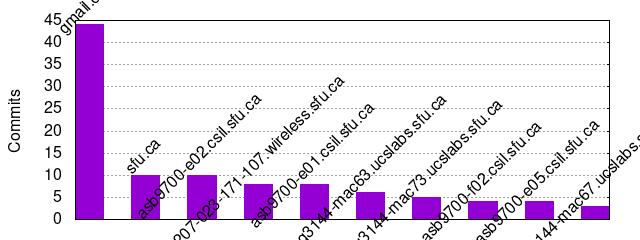
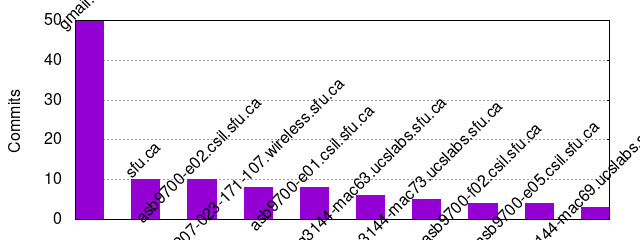
update gitstats

diff --git a/docs/activity.html b/docs/activity.html
@@ -22,27 +22,27 @@
 
 <h2 id="weekly_activity"><a href="#weekly_activity">Weekly activity</a></h2>
 
-<p>Last 32 weeks</p><table class="noborders"><tr><td style="text-align: center; vertical-align: bottom">0<div style="display: block; background-color: red; width: 20px; height: 1px"></div></td><td style="text-align: center; vertical-align: bottom">0<div style="display: block; background-color: red; width: 20px; height: 1px"></div></td><td style="text-align: center; vertical-align: bottom">0<div style="display: block; background-color: red; width: 20px; height: 1px"></div></td><td style="text-align: center; vertical-align: bottom">0<div style="display: block; background-color: red; width: 20px; height: 1px"></div></td><td style="text-align: center; vertical-align: bottom">0<div style="display: block; background-color: red; width: 20px; height: 1px"></div></td><td style="text-align: center; vertical-align: bottom">0<div style="display: block; background-color: red; width: 20px; height: 1px"></div></td><td style="text-align: center; vertical-align: bottom">0<div style="display: block; background-color: red; width: 20px; height: 1px"></div></td><td style="text-align: center; vertical-align: bottom">0<div style="display: block; background-color: red; width: 20px; height: 1px"></div></td><td style="text-align: center; vertical-align: bottom">0<div style="display: block; background-color: red; width: 20px; height: 1px"></div></td><td style="text-align: center; vertical-align: bottom">0<div style="display: block; background-color: red; width: 20px; height: 1px"></div></td><td style="text-align: center; vertical-align: bottom">0<div style="display: block; background-color: red; width: 20px; height: 1px"></div></td><td style="text-align: center; vertical-align: bottom">0<div style="display: block; background-color: red; width: 20px; height: 1px"></div></td><td style="text-align: center; vertical-align: bottom">0<div style="display: block; background-color: red; width: 20px; height: 1px"></div></td><td style="text-align: center; vertical-align: bottom">0<div style="display: block; background-color: red; width: 20px; height: 1px"></div></td><td style="text-align: center; vertical-align: bottom">0<div style="display: block; background-color: red; width: 20px; height: 1px"></div></td><td style="text-align: center; vertical-align: bottom">0<div style="display: block; background-color: red; width: 20px; height: 1px"></div></td><td style="text-align: center; vertical-align: bottom">0<div style="display: block; background-color: red; width: 20px; height: 1px"></div></td><td style="text-align: center; vertical-align: bottom">0<div style="display: block; background-color: red; width: 20px; height: 1px"></div></td><td style="text-align: center; vertical-align: bottom">0<div style="display: block; background-color: red; width: 20px; height: 1px"></div></td><td style="text-align: center; vertical-align: bottom">0<div style="display: block; background-color: red; width: 20px; height: 1px"></div></td><td style="text-align: center; vertical-align: bottom">0<div style="display: block; background-color: red; width: 20px; height: 1px"></div></td><td style="text-align: center; vertical-align: bottom">0<div style="display: block; background-color: red; width: 20px; height: 1px"></div></td><td style="text-align: center; vertical-align: bottom">0<div style="display: block; background-color: red; width: 20px; height: 1px"></div></td><td style="text-align: center; vertical-align: bottom">0<div style="display: block; background-color: red; width: 20px; height: 1px"></div></td><td style="text-align: center; vertical-align: bottom">0<div style="display: block; background-color: red; width: 20px; height: 1px"></div></td><td style="text-align: center; vertical-align: bottom">4<div style="display: block; background-color: red; width: 20px; height: 9px"></div></td><td style="text-align: center; vertical-align: bottom">2<div style="display: block; background-color: red; width: 20px; height: 4px"></div></td><td style="text-align: center; vertical-align: bottom">0<div style="display: block; background-color: red; width: 20px; height: 1px"></div></td><td style="text-align: center; vertical-align: bottom">0<div style="display: block; background-color: red; width: 20px; height: 1px"></div></td><td style="text-align: center; vertical-align: bottom">0<div style="display: block; background-color: red; width: 20px; height: 1px"></div></td><td style="text-align: center; vertical-align: bottom">26<div style="display: block; background-color: red; width: 20px; height: 61px"></div></td><td style="text-align: center; vertical-align: bottom">84<div style="display: block; background-color: red; width: 20px; height: 200px"></div></td></tr><tr><td>32</td><td>31</td><td>30</td><td>29</td><td>28</td><td>27</td><td>26</td><td>25</td><td>24</td><td>23</td><td>22</td><td>21</td><td>20</td><td>19</td><td>18</td><td>17</td><td>16</td><td>15</td><td>14</td><td>13</td><td>12</td><td>11</td><td>10</td><td>9</td><td>8</td><td>7</td><td>6</td><td>5</td><td>4</td><td>3</td><td>2</td><td>1</td></tr></table>
+<p>Last 32 weeks</p><table class="noborders"><tr><td style="text-align: center; vertical-align: bottom">0<div style="display: block; background-color: red; width: 20px; height: 1px"></div></td><td style="text-align: center; vertical-align: bottom">0<div style="display: block; background-color: red; width: 20px; height: 1px"></div></td><td style="text-align: center; vertical-align: bottom">0<div style="display: block; background-color: red; width: 20px; height: 1px"></div></td><td style="text-align: center; vertical-align: bottom">0<div style="display: block; background-color: red; width: 20px; height: 1px"></div></td><td style="text-align: center; vertical-align: bottom">0<div style="display: block; background-color: red; width: 20px; height: 1px"></div></td><td style="text-align: center; vertical-align: bottom">0<div style="display: block; background-color: red; width: 20px; height: 1px"></div></td><td style="text-align: center; vertical-align: bottom">0<div style="display: block; background-color: red; width: 20px; height: 1px"></div></td><td style="text-align: center; vertical-align: bottom">0<div style="display: block; background-color: red; width: 20px; height: 1px"></div></td><td style="text-align: center; vertical-align: bottom">0<div style="display: block; background-color: red; width: 20px; height: 1px"></div></td><td style="text-align: center; vertical-align: bottom">0<div style="display: block; background-color: red; width: 20px; height: 1px"></div></td><td style="text-align: center; vertical-align: bottom">0<div style="display: block; background-color: red; width: 20px; height: 1px"></div></td><td style="text-align: center; vertical-align: bottom">0<div style="display: block; background-color: red; width: 20px; height: 1px"></div></td><td style="text-align: center; vertical-align: bottom">0<div style="display: block; background-color: red; width: 20px; height: 1px"></div></td><td style="text-align: center; vertical-align: bottom">0<div style="display: block; background-color: red; width: 20px; height: 1px"></div></td><td style="text-align: center; vertical-align: bottom">0<div style="display: block; background-color: red; width: 20px; height: 1px"></div></td><td style="text-align: center; vertical-align: bottom">0<div style="display: block; background-color: red; width: 20px; height: 1px"></div></td><td style="text-align: center; vertical-align: bottom">0<div style="display: block; background-color: red; width: 20px; height: 1px"></div></td><td style="text-align: center; vertical-align: bottom">0<div style="display: block; background-color: red; width: 20px; height: 1px"></div></td><td style="text-align: center; vertical-align: bottom">0<div style="display: block; background-color: red; width: 20px; height: 1px"></div></td><td style="text-align: center; vertical-align: bottom">0<div style="display: block; background-color: red; width: 20px; height: 1px"></div></td><td style="text-align: center; vertical-align: bottom">0<div style="display: block; background-color: red; width: 20px; height: 1px"></div></td><td style="text-align: center; vertical-align: bottom">0<div style="display: block; background-color: red; width: 20px; height: 1px"></div></td><td style="text-align: center; vertical-align: bottom">0<div style="display: block; background-color: red; width: 20px; height: 1px"></div></td><td style="text-align: center; vertical-align: bottom">0<div style="display: block; background-color: red; width: 20px; height: 1px"></div></td><td style="text-align: center; vertical-align: bottom">4<div style="display: block; background-color: red; width: 20px; height: 9px"></div></td><td style="text-align: center; vertical-align: bottom">2<div style="display: block; background-color: red; width: 20px; height: 4px"></div></td><td style="text-align: center; vertical-align: bottom">0<div style="display: block; background-color: red; width: 20px; height: 1px"></div></td><td style="text-align: center; vertical-align: bottom">0<div style="display: block; background-color: red; width: 20px; height: 1px"></div></td><td style="text-align: center; vertical-align: bottom">0<div style="display: block; background-color: red; width: 20px; height: 1px"></div></td><td style="text-align: center; vertical-align: bottom">26<div style="display: block; background-color: red; width: 20px; height: 60px"></div></td><td style="text-align: center; vertical-align: bottom">86<div style="display: block; background-color: red; width: 20px; height: 200px"></div></td><td style="text-align: center; vertical-align: bottom">7<div style="display: block; background-color: red; width: 20px; height: 16px"></div></td></tr><tr><td>32</td><td>31</td><td>30</td><td>29</td><td>28</td><td>27</td><td>26</td><td>25</td><td>24</td><td>23</td><td>22</td><td>21</td><td>20</td><td>19</td><td>18</td><td>17</td><td>16</td><td>15</td><td>14</td><td>13</td><td>12</td><td>11</td><td>10</td><td>9</td><td>8</td><td>7</td><td>6</td><td>5</td><td>4</td><td>3</td><td>2</td><td>1</td></tr></table>
 <h2 id="hour_of_day"><a href="#hour_of_day">Hour of Day</a></h2>
 
 <table><tr><th>Hour</th><th>0</th><th>1</th><th>2</th><th>3</th><th>4</th><th>5</th><th>6</th><th>7</th><th>8</th><th>9</th><th>10</th><th>11</th><th>12</th><th>13</th><th>14</th><th>15</th><th>16</th><th>17</th><th>18</th><th>19</th><th>20</th><th>21</th><th>22</th><th>23</th></tr>
-<tr><th>Commits</th><td style="background-color: rgb(135, 0, 0)">1</td><td>0</td><td>0</td><td>0</td><td>0</td><td>0</td><td>0</td><td>0</td><td>0</td><td>0</td><td style="background-color: rgb(191, 0, 0)">8</td><td style="background-color: rgb(191, 0, 0)">8</td><td style="background-color: rgb(183, 0, 0)">7</td><td style="background-color: rgb(223, 0, 0)">12</td><td style="background-color: rgb(159, 0, 0)">4</td><td style="background-color: rgb(239, 0, 0)">14</td><td style="background-color: rgb(175, 0, 0)">6</td><td style="background-color: rgb(255, 0, 0)">16</td><td style="background-color: rgb(207, 0, 0)">10</td><td style="background-color: rgb(191, 0, 0)">8</td><td style="background-color: rgb(239, 0, 0)">14</td><td style="background-color: rgb(159, 0, 0)">4</td><td style="background-color: rgb(159, 0, 0)">4</td><td>0</td></tr>
-<tr><th>%</th><td style="background-color: rgb(135, 0, 0)">0.86</td><td>0.00</td><td>0.00</td><td>0.00</td><td>0.00</td><td>0.00</td><td>0.00</td><td>0.00</td><td>0.00</td><td>0.00</td><td style="background-color: rgb(191, 0, 0)">6.90</td><td style="background-color: rgb(191, 0, 0)">6.90</td><td style="background-color: rgb(183, 0, 0)">6.03</td><td style="background-color: rgb(223, 0, 0)">10.34</td><td style="background-color: rgb(159, 0, 0)">3.45</td><td style="background-color: rgb(239, 0, 0)">12.07</td><td style="background-color: rgb(175, 0, 0)">5.17</td><td style="background-color: rgb(255, 0, 0)">13.79</td><td style="background-color: rgb(207, 0, 0)">8.62</td><td style="background-color: rgb(191, 0, 0)">6.90</td><td style="background-color: rgb(239, 0, 0)">12.07</td><td style="background-color: rgb(159, 0, 0)">3.45</td><td style="background-color: rgb(159, 0, 0)">3.45</td><td>0.00</td></tr></table><img src="hour_of_day.png" alt="Hour of Day">
+<tr><th>Commits</th><td style="background-color: rgb(134, 0, 0)">1</td><td>0</td><td>0</td><td>0</td><td>0</td><td>0</td><td>0</td><td>0</td><td>0</td><td>0</td><td style="background-color: rgb(183, 0, 0)">8</td><td style="background-color: rgb(183, 0, 0)">8</td><td style="background-color: rgb(176, 0, 0)">7</td><td style="background-color: rgb(212, 0, 0)">12</td><td style="background-color: rgb(162, 0, 0)">5</td><td style="background-color: rgb(255, 0, 0)">18</td><td style="background-color: rgb(191, 0, 0)">9</td><td style="background-color: rgb(240, 0, 0)">16</td><td style="background-color: rgb(198, 0, 0)">10</td><td style="background-color: rgb(183, 0, 0)">8</td><td style="background-color: rgb(226, 0, 0)">14</td><td style="background-color: rgb(155, 0, 0)">4</td><td style="background-color: rgb(162, 0, 0)">5</td><td>0</td></tr>
+<tr><th>%</th><td style="background-color: rgb(134, 0, 0)">0.80</td><td>0.00</td><td>0.00</td><td>0.00</td><td>0.00</td><td>0.00</td><td>0.00</td><td>0.00</td><td>0.00</td><td>0.00</td><td style="background-color: rgb(183, 0, 0)">6.40</td><td style="background-color: rgb(183, 0, 0)">6.40</td><td style="background-color: rgb(176, 0, 0)">5.60</td><td style="background-color: rgb(212, 0, 0)">9.60</td><td style="background-color: rgb(162, 0, 0)">4.00</td><td style="background-color: rgb(255, 0, 0)">14.40</td><td style="background-color: rgb(191, 0, 0)">7.20</td><td style="background-color: rgb(240, 0, 0)">12.80</td><td style="background-color: rgb(198, 0, 0)">8.00</td><td style="background-color: rgb(183, 0, 0)">6.40</td><td style="background-color: rgb(226, 0, 0)">11.20</td><td style="background-color: rgb(155, 0, 0)">3.20</td><td style="background-color: rgb(162, 0, 0)">4.00</td><td>0.00</td></tr></table><img src="hour_of_day.png" alt="Hour of Day">
 <h2 id="day_of_week"><a href="#day_of_week">Day of Week</a></h2>
 
-<div class="vtable"><table><tr><th>Day</th><th>Total (%)</th></tr><tr><th>Mon</th><td>7 (6.03%)</td></tr><tr><th>Tue</th><td>13 (11.21%)</td></tr><tr><th>Wed</th><td>4 (3.45%)</td></tr><tr><th>Thu</th><td>28 (24.14%)</td></tr><tr><th>Fri</th><td>18 (15.52%)</td></tr><tr><th>Sat</th><td>2 (1.72%)</td></tr><tr><th>Sun</th><td>44 (37.93%)</td></tr></table></div><img src="day_of_week.png" alt="Day of Week">
+<div class="vtable"><table><tr><th>Day</th><th>Total (%)</th></tr><tr><th>Mon</th><td>14 (11.20%)</td></tr><tr><th>Tue</th><td>13 (10.40%)</td></tr><tr><th>Wed</th><td>4 (3.20%)</td></tr><tr><th>Thu</th><td>29 (23.20%)</td></tr><tr><th>Fri</th><td>18 (14.40%)</td></tr><tr><th>Sat</th><td>2 (1.60%)</td></tr><tr><th>Sun</th><td>45 (36.00%)</td></tr></table></div><img src="day_of_week.png" alt="Day of Week">
 <h2 id="hour_of_week"><a href="#hour_of_week">Hour of Week</a></h2>
 
-<table><tr><th>Weekday</th><th>0</th><th>1</th><th>2</th><th>3</th><th>4</th><th>5</th><th>6</th><th>7</th><th>8</th><th>9</th><th>10</th><th>11</th><th>12</th><th>13</th><th>14</th><th>15</th><th>16</th><th>17</th><th>18</th><th>19</th><th>20</th><th>21</th><th>22</th><th>23</th></tr><tr><th>Mon</th><td></td><td></td><td></td><td></td><td></td><td></td><td></td><td></td><td></td><td></td><td></td><td></td><td></td><td></td><td></td><td></td><td></td><td style="background-color: rgb(152, 0, 0)">2</td><td style="background-color: rgb(139, 0, 0)">1</td><td></td><td style="background-color: rgb(139, 0, 0)">1</td><td style="background-color: rgb(139, 0, 0)">1</td><td style="background-color: rgb(152, 0, 0)">2</td><td></td></tr><tr><th>Tue</th><td></td><td></td><td></td><td></td><td></td><td></td><td></td><td></td><td></td><td></td><td style="background-color: rgb(165, 0, 0)">3</td><td style="background-color: rgb(152, 0, 0)">2</td><td style="background-color: rgb(165, 0, 0)">3</td><td style="background-color: rgb(139, 0, 0)">1</td><td></td><td></td><td></td><td></td><td></td><td style="background-color: rgb(139, 0, 0)">1</td><td style="background-color: rgb(139, 0, 0)">1</td><td style="background-color: rgb(139, 0, 0)">1</td><td style="background-color: rgb(139, 0, 0)">1</td><td></td></tr><tr><th>Wed</th><td style="background-color: rgb(139, 0, 0)">1</td><td></td><td></td><td></td><td></td><td></td><td></td><td></td><td></td><td></td><td></td><td></td><td></td><td style="background-color: rgb(139, 0, 0)">1</td><td></td><td></td><td></td><td style="background-color: rgb(139, 0, 0)">1</td><td></td><td></td><td></td><td></td><td style="background-color: rgb(139, 0, 0)">1</td><td></td></tr><tr><th>Thu</th><td></td><td></td><td></td><td></td><td></td><td></td><td></td><td></td><td></td><td></td><td style="background-color: rgb(165, 0, 0)">3</td><td style="background-color: rgb(203, 0, 0)">6</td><td style="background-color: rgb(152, 0, 0)">2</td><td style="background-color: rgb(178, 0, 0)">4</td><td></td><td style="background-color: rgb(178, 0, 0)">4</td><td style="background-color: rgb(139, 0, 0)">1</td><td style="background-color: rgb(203, 0, 0)">6</td><td style="background-color: rgb(139, 0, 0)">1</td><td style="background-color: rgb(139, 0, 0)">1</td><td></td><td></td><td></td><td></td></tr><tr><th>Fri</th><td></td><td></td><td></td><td></td><td></td><td></td><td></td><td></td><td></td><td></td><td style="background-color: rgb(152, 0, 0)">2</td><td></td><td style="background-color: rgb(139, 0, 0)">1</td><td style="background-color: rgb(165, 0, 0)">3</td><td></td><td style="background-color: rgb(152, 0, 0)">2</td><td style="background-color: rgb(178, 0, 0)">4</td><td style="background-color: rgb(152, 0, 0)">2</td><td style="background-color: rgb(139, 0, 0)">1</td><td style="background-color: rgb(139, 0, 0)">1</td><td style="background-color: rgb(152, 0, 0)">2</td><td></td><td></td><td></td></tr><tr><th>Sat</th><td></td><td></td><td></td><td></td><td></td><td></td><td></td><td></td><td></td><td></td><td></td><td></td><td></td><td></td><td></td><td style="background-color: rgb(152, 0, 0)">2</td><td></td><td></td><td></td><td></td><td></td><td></td><td></td><td></td></tr><tr><th>Sun</th><td></td><td></td><td></td><td></td><td></td><td></td><td></td><td></td><td></td><td></td><td></td><td></td><td style="background-color: rgb(139, 0, 0)">1</td><td style="background-color: rgb(165, 0, 0)">3</td><td style="background-color: rgb(178, 0, 0)">4</td><td style="background-color: rgb(203, 0, 0)">6</td><td style="background-color: rgb(139, 0, 0)">1</td><td style="background-color: rgb(191, 0, 0)">5</td><td style="background-color: rgb(216, 0, 0)">7</td><td style="background-color: rgb(191, 0, 0)">5</td><td style="background-color: rgb(255, 0, 0)">10</td><td style="background-color: rgb(152, 0, 0)">2</td><td></td><td></td></tr></table>
+<table><tr><th>Weekday</th><th>0</th><th>1</th><th>2</th><th>3</th><th>4</th><th>5</th><th>6</th><th>7</th><th>8</th><th>9</th><th>10</th><th>11</th><th>12</th><th>13</th><th>14</th><th>15</th><th>16</th><th>17</th><th>18</th><th>19</th><th>20</th><th>21</th><th>22</th><th>23</th></tr><tr><th>Mon</th><td></td><td></td><td></td><td></td><td></td><td></td><td></td><td></td><td></td><td></td><td></td><td></td><td></td><td></td><td style="background-color: rgb(139, 0, 0)">1</td><td style="background-color: rgb(178, 0, 0)">4</td><td style="background-color: rgb(152, 0, 0)">2</td><td style="background-color: rgb(152, 0, 0)">2</td><td style="background-color: rgb(139, 0, 0)">1</td><td></td><td style="background-color: rgb(139, 0, 0)">1</td><td style="background-color: rgb(139, 0, 0)">1</td><td style="background-color: rgb(152, 0, 0)">2</td><td></td></tr><tr><th>Tue</th><td></td><td></td><td></td><td></td><td></td><td></td><td></td><td></td><td></td><td></td><td style="background-color: rgb(165, 0, 0)">3</td><td style="background-color: rgb(152, 0, 0)">2</td><td style="background-color: rgb(165, 0, 0)">3</td><td style="background-color: rgb(139, 0, 0)">1</td><td></td><td></td><td></td><td></td><td></td><td style="background-color: rgb(139, 0, 0)">1</td><td style="background-color: rgb(139, 0, 0)">1</td><td style="background-color: rgb(139, 0, 0)">1</td><td style="background-color: rgb(139, 0, 0)">1</td><td></td></tr><tr><th>Wed</th><td style="background-color: rgb(139, 0, 0)">1</td><td></td><td></td><td></td><td></td><td></td><td></td><td></td><td></td><td></td><td></td><td></td><td></td><td style="background-color: rgb(139, 0, 0)">1</td><td></td><td></td><td></td><td style="background-color: rgb(139, 0, 0)">1</td><td></td><td></td><td></td><td></td><td style="background-color: rgb(139, 0, 0)">1</td><td></td></tr><tr><th>Thu</th><td></td><td></td><td></td><td></td><td></td><td></td><td></td><td></td><td></td><td></td><td style="background-color: rgb(165, 0, 0)">3</td><td style="background-color: rgb(203, 0, 0)">6</td><td style="background-color: rgb(152, 0, 0)">2</td><td style="background-color: rgb(178, 0, 0)">4</td><td></td><td style="background-color: rgb(178, 0, 0)">4</td><td style="background-color: rgb(152, 0, 0)">2</td><td style="background-color: rgb(203, 0, 0)">6</td><td style="background-color: rgb(139, 0, 0)">1</td><td style="background-color: rgb(139, 0, 0)">1</td><td></td><td></td><td></td><td></td></tr><tr><th>Fri</th><td></td><td></td><td></td><td></td><td></td><td></td><td></td><td></td><td></td><td></td><td style="background-color: rgb(152, 0, 0)">2</td><td></td><td style="background-color: rgb(139, 0, 0)">1</td><td style="background-color: rgb(165, 0, 0)">3</td><td></td><td style="background-color: rgb(152, 0, 0)">2</td><td style="background-color: rgb(178, 0, 0)">4</td><td style="background-color: rgb(152, 0, 0)">2</td><td style="background-color: rgb(139, 0, 0)">1</td><td style="background-color: rgb(139, 0, 0)">1</td><td style="background-color: rgb(152, 0, 0)">2</td><td></td><td></td><td></td></tr><tr><th>Sat</th><td></td><td></td><td></td><td></td><td></td><td></td><td></td><td></td><td></td><td></td><td></td><td></td><td></td><td></td><td></td><td style="background-color: rgb(152, 0, 0)">2</td><td></td><td></td><td></td><td></td><td></td><td></td><td></td><td></td></tr><tr><th>Sun</th><td></td><td></td><td></td><td></td><td></td><td></td><td></td><td></td><td></td><td></td><td></td><td></td><td style="background-color: rgb(139, 0, 0)">1</td><td style="background-color: rgb(165, 0, 0)">3</td><td style="background-color: rgb(178, 0, 0)">4</td><td style="background-color: rgb(203, 0, 0)">6</td><td style="background-color: rgb(139, 0, 0)">1</td><td style="background-color: rgb(191, 0, 0)">5</td><td style="background-color: rgb(216, 0, 0)">7</td><td style="background-color: rgb(191, 0, 0)">5</td><td style="background-color: rgb(255, 0, 0)">10</td><td style="background-color: rgb(152, 0, 0)">2</td><td style="background-color: rgb(139, 0, 0)">1</td><td></td></tr></table>
 <h2 id="month_of_year"><a href="#month_of_year">Month of Year</a></h2>
 
-<div class="vtable"><table><tr><th>Month</th><th>Commits (%)</th></tr><tr><td>1</td><td>0 (0.00 %)</td></tr><tr><td>2</td><td>0 (0.00 %)</td></tr><tr><td>3</td><td>0 (0.00 %)</td></tr><tr><td>4</td><td>0 (0.00 %)</td></tr><tr><td>5</td><td>0 (0.00 %)</td></tr><tr><td>6</td><td>0 (0.00 %)</td></tr><tr><td>7</td><td>0 (0.00 %)</td></tr><tr><td>8</td><td>0 (0.00 %)</td></tr><tr><td>9</td><td>6 (5.17 %)</td></tr><tr><td>10</td><td>44 (37.93 %)</td></tr><tr><td>11</td><td>66 (56.90 %)</td></tr><tr><td>12</td><td>0 (0.00 %)</td></tr></table></div><img src="month_of_year.png" alt="Month of Year">
+<div class="vtable"><table><tr><th>Month</th><th>Commits (%)</th></tr><tr><td>1</td><td>0 (0.00 %)</td></tr><tr><td>2</td><td>0 (0.00 %)</td></tr><tr><td>3</td><td>0 (0.00 %)</td></tr><tr><td>4</td><td>0 (0.00 %)</td></tr><tr><td>5</td><td>0 (0.00 %)</td></tr><tr><td>6</td><td>0 (0.00 %)</td></tr><tr><td>7</td><td>0 (0.00 %)</td></tr><tr><td>8</td><td>0 (0.00 %)</td></tr><tr><td>9</td><td>6 (4.80 %)</td></tr><tr><td>10</td><td>44 (35.20 %)</td></tr><tr><td>11</td><td>75 (60.00 %)</td></tr><tr><td>12</td><td>0 (0.00 %)</td></tr></table></div><img src="month_of_year.png" alt="Month of Year">
 <h2 id="commits_by_year/month"><a href="#commits_by_year/month">Commits by year/month</a></h2>
 
-<div class="vtable"><table><tr><th>Month</th><th>Commits</th><th>Lines added</th><th>Lines removed</th></tr><tr><td>2018-11</td><td>66</td><td>7130</td><td>4768</td></tr><tr><td>2018-10</td><td>44</td><td>21658</td><td>924</td></tr><tr><td>2018-09</td><td>6</td><td>15</td><td>2</td></tr></table></div><img src="commits_by_year_month.png" alt="Commits by year/month">
+<div class="vtable"><table><tr><th>Month</th><th>Commits</th><th>Lines added</th><th>Lines removed</th></tr><tr><td>2018-11</td><td>75</td><td>7610</td><td>5014</td></tr><tr><td>2018-10</td><td>44</td><td>21658</td><td>924</td></tr><tr><td>2018-09</td><td>6</td><td>15</td><td>2</td></tr></table></div><img src="commits_by_year_month.png" alt="Commits by year/month">
 <h2 id="commits_by_year"><a href="#commits_by_year">Commits by Year</a></h2>
 
-<div class="vtable"><table><tr><th>Year</th><th>Commits (% of all)</th><th>Lines added</th><th>Lines removed</th></tr><tr><td>2018</td><td>116 (100.00%)</td><td>28803</td><td>5694</td></tr></table></div><img src="commits_by_year.png" alt="Commits by Year">
+<div class="vtable"><table><tr><th>Year</th><th>Commits (% of all)</th><th>Lines added</th><th>Lines removed</th></tr><tr><td>2018</td><td>125 (100.00%)</td><td>29283</td><td>5940</td></tr></table></div><img src="commits_by_year.png" alt="Commits by Year">
 <h2 id="commits_by_timezone"><a href="#commits_by_timezone">Commits by Timezone</a></h2>
 
-<table><tr><th>Timezone</th><th>Commits</th></tr><tr><th>-0800</th><td style="background-color: rgb(189, 0, 0)">38</td></tr><tr><th>-0700</th><td style="background-color: rgb(255, 0, 0)">78</td></tr></table></body></html>
+<table><tr><th>Timezone</th><th>Commits</th></tr><tr><th>-0800</th><td style="background-color: rgb(201, 0, 0)">46</td></tr><tr><th>-0700</th><td style="background-color: rgb(255, 0, 0)">79</td></tr></table></body></html>

diff --git a/docs/authors.html b/docs/authors.html
@@ -22,7 +22,7 @@
 
 <h2 id="list_of_authors"><a href="#list_of_authors">List of Authors</a></h2>
 
-<table class="authors sortable" id="authors"><tr><th>Author</th><th>Commits (%)</th><th>+ lines</th><th>- lines</th><th>First commit</th><th>Last commit</th><th class="unsortable">Age</th><th>Active days</th><th># by commits</th></tr><tr><td>Nic Klaassen</td><td>35 (30.17%)</td><td>2291</td><td>4073</td><td>2018-09-20</td><td>2018-11-04</td><td>45 days, 9:47:57</td><td>9</td><td>1</td></tr><tr><td>Jason Fevang</td><td>30 (25.86%)</td><td>2050</td><td>828</td><td>2018-10-22</td><td>2018-11-04</td><td>12 days, 20:19:06</td><td>8</td><td>2</td></tr><tr><td>Colin Chan</td><td>23 (19.83%)</td><td>8237</td><td>3443</td><td>2018-10-23</td><td>2018-11-04</td><td>12 days, 1:33:54</td><td>7</td><td>3</td></tr><tr><td>dchop</td><td>10 (8.62%)</td><td>1068</td><td>472</td><td>2018-10-25</td><td>2018-11-04</td><td>10 days, 8:25:56</td><td>4</td><td>4</td></tr><tr><td>Jakub2</td><td>8 (6.90%)</td><td>715</td><td>401</td><td>2018-11-04</td><td>2018-11-04</td><td>5:43:06</td><td>1</td><td>5</td></tr><tr><td>nklaasse</td><td>3 (2.59%)</td><td>16543</td><td>0</td><td>2018-10-22</td><td>2018-10-28</td><td>5 days, 22:09:50</td><td>3</td><td>6</td></tr><tr><td>David Nishi Beckingham</td><td>3 (2.59%)</td><td>1488</td><td>80</td><td>2018-11-01</td><td>2018-11-04</td><td>3 days, 3:08:09</td><td>2</td><td>7</td></tr><tr><td>nic</td><td>2 (1.72%)</td><td>14</td><td>3</td><td>2018-09-23</td><td>2018-09-24</td><td>1 day, 3:51:59</td><td>2</td><td>8</td></tr><tr><td>knishibe</td><td>2 (1.72%)</td><td>1</td><td>0</td><td>2018-09-20</td><td>2018-09-20</td><td>0:02:10</td><td>1</td><td>9</td></tr></table>
+<table class="authors sortable" id="authors"><tr><th>Author</th><th>Commits (%)</th><th>+ lines</th><th>- lines</th><th>First commit</th><th>Last commit</th><th class="unsortable">Age</th><th>Active days</th><th># by commits</th></tr><tr><td>Nic Klaassen</td><td>41 (32.80%)</td><td>2448</td><td>4178</td><td>2018-09-20</td><td>2018-11-05</td><td>46 days, 4:05:18</td><td>10</td><td>1</td></tr><tr><td>Jason Fevang</td><td>33 (26.40%)</td><td>2373</td><td>969</td><td>2018-10-22</td><td>2018-11-05</td><td>13 days, 17:21:11</td><td>9</td><td>2</td></tr><tr><td>Colin Chan</td><td>23 (18.40%)</td><td>8237</td><td>3443</td><td>2018-10-23</td><td>2018-11-04</td><td>12 days, 1:33:54</td><td>7</td><td>3</td></tr><tr><td>dchop</td><td>10 (8.00%)</td><td>1068</td><td>472</td><td>2018-10-25</td><td>2018-11-04</td><td>10 days, 8:25:56</td><td>4</td><td>4</td></tr><tr><td>Jakub2</td><td>8 (6.40%)</td><td>715</td><td>401</td><td>2018-11-04</td><td>2018-11-04</td><td>5:43:06</td><td>1</td><td>5</td></tr><tr><td>nklaasse</td><td>3 (2.40%)</td><td>16543</td><td>0</td><td>2018-10-22</td><td>2018-10-28</td><td>5 days, 22:09:50</td><td>3</td><td>6</td></tr><tr><td>David Nishi Beckingham</td><td>3 (2.40%)</td><td>1488</td><td>80</td><td>2018-11-01</td><td>2018-11-04</td><td>3 days, 3:08:09</td><td>2</td><td>7</td></tr><tr><td>nic</td><td>2 (1.60%)</td><td>14</td><td>3</td><td>2018-09-23</td><td>2018-09-24</td><td>1 day, 3:51:59</td><td>2</td><td>8</td></tr><tr><td>knishibe</td><td>2 (1.60%)</td><td>1</td><td>0</td><td>2018-09-20</td><td>2018-09-20</td><td>0:02:10</td><td>1</td><td>9</td></tr></table>
 <h2 id="cumulated_added_lines_of_code_per_author"><a href="#cumulated_added_lines_of_code_per_author">Cumulated Added Lines of Code per Author</a></h2>
 
 <img src="lines_of_code_by_author.png" alt="Lines of code per Author">
@@ -31,10 +31,10 @@
 <img src="commits_by_author.png" alt="Commits per Author">
 <h2 id="author_of_month"><a href="#author_of_month">Author of Month</a></h2>
 
-<table class="sortable" id="aom"><tr><th>Month</th><th>Author</th><th>Commits (%)</th><th class="unsortable">Next top 5</th><th>Number of authors</th></tr><tr><td>2018-11</td><td>Jason Fevang</td><td>23 (34.85% of 66)</td><td>Nic Klaassen, Colin Chan, Jakub2, dchop, David Nishi Beckingham</td><td>6</td></tr><tr><td>2018-10</td><td>Nic Klaassen</td><td>17 (38.64% of 44)</td><td>Colin Chan, Jason Fevang, dchop, nklaasse</td><td>5</td></tr><tr><td>2018-09</td><td>nic</td><td>2 (33.33% of 6)</td><td>knishibe, Nic Klaassen</td><td>3</td></tr></table>
+<table class="sortable" id="aom"><tr><th>Month</th><th>Author</th><th>Commits (%)</th><th class="unsortable">Next top 5</th><th>Number of authors</th></tr><tr><td>2018-11</td><td>Jason Fevang</td><td>26 (34.67% of 75)</td><td>Nic Klaassen, Colin Chan, Jakub2, dchop, David Nishi Beckingham</td><td>6</td></tr><tr><td>2018-10</td><td>Nic Klaassen</td><td>17 (38.64% of 44)</td><td>Colin Chan, Jason Fevang, dchop, nklaasse</td><td>5</td></tr><tr><td>2018-09</td><td>nic</td><td>2 (33.33% of 6)</td><td>knishibe, Nic Klaassen</td><td>3</td></tr></table>
 <h2 id="author_of_year"><a href="#author_of_year">Author of Year</a></h2>
 
-<table class="sortable" id="aoy"><tr><th>Year</th><th>Author</th><th>Commits (%)</th><th class="unsortable">Next top 5</th><th>Number of authors</th></tr><tr><td>2018</td><td>Nic Klaassen</td><td>35 (30.17% of 116)</td><td>Jason Fevang, Colin Chan, dchop, Jakub2, nklaasse</td><td>9</td></tr></table>
+<table class="sortable" id="aoy"><tr><th>Year</th><th>Author</th><th>Commits (%)</th><th class="unsortable">Next top 5</th><th>Number of authors</th></tr><tr><td>2018</td><td>Nic Klaassen</td><td>41 (32.80% of 125)</td><td>Jason Fevang, Colin Chan, dchop, Jakub2, nklaasse</td><td>9</td></tr></table>
 <h2 id="commits_by_domains"><a href="#commits_by_domains">Commits by Domains</a></h2>
 
-<div class="vtable"><table><tr><th>Domains</th><th>Total (%)</th></tr><tr><th>gmail.com</th><td>44 (37.93%)</td></tr><tr><th>sfu.ca</th><td>10 (8.62%)</td></tr><tr><th>asb9700-e02.csil.sfu.ca</th><td>10 (8.62%)</td></tr><tr><th>d207-023-171-107.wireless.sfu.ca</th><td>8 (6.90%)</td></tr><tr><th>asb9700-e01.csil.sfu.ca</th><td>8 (6.90%)</td></tr><tr><th>aq3144-mac63.ucslabs.sfu.ca</th><td>6 (5.17%)</td></tr><tr><th>aq3144-mac73.ucslabs.sfu.ca</th><td>5 (4.31%)</td></tr><tr><th>asb9700-f02.csil.sfu.ca</th><td>4 (3.45%)</td></tr><tr><th>asb9700-e05.csil.sfu.ca</th><td>4 (3.45%)</td></tr><tr><th>aq3144-mac67.ucslabs.sfu.ca</th><td>3 (2.59%)</td></tr></table></div><img src="domains.png" alt="Commits by Domains"></body></html>
+<div class="vtable"><table><tr><th>Domains</th><th>Total (%)</th></tr><tr><th>gmail.com</th><td>50 (40.00%)</td></tr><tr><th>sfu.ca</th><td>10 (8.00%)</td></tr><tr><th>asb9700-e02.csil.sfu.ca</th><td>10 (8.00%)</td></tr><tr><th>d207-023-171-107.wireless.sfu.ca</th><td>8 (6.40%)</td></tr><tr><th>asb9700-e01.csil.sfu.ca</th><td>8 (6.40%)</td></tr><tr><th>aq3144-mac63.ucslabs.sfu.ca</th><td>6 (4.80%)</td></tr><tr><th>aq3144-mac73.ucslabs.sfu.ca</th><td>5 (4.00%)</td></tr><tr><th>asb9700-f02.csil.sfu.ca</th><td>4 (3.20%)</td></tr><tr><th>asb9700-e05.csil.sfu.ca</th><td>4 (3.20%)</td></tr><tr><th>aq3144-mac69.ucslabs.sfu.ca</th><td>3 (2.40%)</td></tr></table></div><img src="domains.png" alt="Commits by Domains"></body></html>

diff --git a/docs/files.html b/docs/files.html
@@ -20,11 +20,11 @@
 </ul>
 </div>
 <dl>
-<dt>Total files</dt><dd>188</dd><dt>Total lines</dt><dd>23109</dd><dt>Average file size</dt><dd>44804.36 bytes</dd></dl>
+<dt>Total files</dt><dd>190</dd><dt>Total lines</dt><dd>23343</dd><dt>Average file size</dt><dd>44386.55 bytes</dd></dl>
 
 <h2 id="file_count_by_date"><a href="#file_count_by_date">File count by date</a></h2>
 
 <img src="files_by_date.png" alt="Files by Date">
 <h2 id="extensions"><a href="#extensions">Extensions</a></h2>
 
-<table class="sortable" id="ext"><tr><th>Extension</th><th>Files (%)</th><th>Lines (%)</th><th>Lines/file</th></tr><tr><td></td><td>15 (7.98%)</td><td>1109 (4.80%)</td><td>73</td></tr><tr><td>cache</td><td>1 (0.53%)</td><td>26 (0.11%)</td><td>26</td></tr><tr><td>css</td><td>1 (0.53%)</td><td>145 (0.63%)</td><td>145</td></tr><tr><td>dat</td><td>10 (5.32%)</td><td>386 (1.67%)</td><td>38</td></tr><tr><td>gif</td><td>3 (1.60%)</td><td>6 (0.03%)</td><td>2</td></tr><tr><td>h</td><td>3 (1.60%)</td><td>200 (0.87%)</td><td>66</td></tr><tr><td>html</td><td>6 (3.19%)</td><td>184 (0.80%)</td><td>30</td></tr><tr><td>jpg</td><td>3 (1.60%)</td><td>23203 (100.41%)</td><td>7734</td></tr><tr><td>js</td><td>1 (0.53%)</td><td>324 (1.40%)</td><td>324</td></tr><tr><td>json</td><td>8 (4.26%)</td><td>222 (0.96%)</td><td>27</td></tr><tr><td>lock</td><td>1 (0.53%)</td><td>77 (0.33%)</td><td>77</td></tr><tr><td>m</td><td>1 (0.53%)</td><td>138 (0.60%)</td><td>138</td></tr><tr><td>md</td><td>7 (3.72%)</td><td>2478 (10.72%)</td><td>354</td></tr><tr><td>pbxproj</td><td>2 (1.06%)</td><td>2496 (10.80%)</td><td>1248</td></tr><tr><td>plist</td><td>6 (3.19%)</td><td>147 (0.64%)</td><td>24</td></tr><tr><td>plot</td><td>10 (5.32%)</td><td>127 (0.55%)</td><td>12</td></tr><tr><td>png</td><td>16 (8.51%)</td><td>1908 (8.26%)</td><td>119</td></tr><tr><td>podspec</td><td>1 (0.53%)</td><td>69 (0.30%)</td><td>69</td></tr><tr><td>rb</td><td>1 (0.53%)</td><td>70 (0.30%)</td><td>70</td></tr><tr><td>sh</td><td>1 (0.53%)</td><td>15 (0.06%)</td><td>15</td></tr><tr><td>sqlite</td><td>1 (0.53%)</td><td>3 (0.01%)</td><td>3</td></tr><tr><td>storyboard</td><td>6 (3.19%)</td><td>1823 (7.89%)</td><td>303</td></tr><tr><td>swift</td><td>80 (42.55%)</td><td>13803 (59.73%)</td><td>172</td></tr><tr><td>txt</td><td>1 (0.53%)</td><td>21 (0.09%)</td><td>21</td></tr><tr><td>xcscheme</td><td>1 (0.53%)</td><td>111 (0.48%)</td><td>111</td></tr><tr><td>yml</td><td>2 (1.06%)</td><td>29 (0.13%)</td><td>14</td></tr></table></body></html>
+<table class="sortable" id="ext"><tr><th>Extension</th><th>Files (%)</th><th>Lines (%)</th><th>Lines/file</th></tr><tr><td></td><td>15 (7.89%)</td><td>1109 (4.75%)</td><td>73</td></tr><tr><td>cache</td><td>1 (0.53%)</td><td>25 (0.11%)</td><td>25</td></tr><tr><td>css</td><td>1 (0.53%)</td><td>145 (0.62%)</td><td>145</td></tr><tr><td>dat</td><td>10 (5.26%)</td><td>390 (1.67%)</td><td>39</td></tr><tr><td>gif</td><td>3 (1.58%)</td><td>6 (0.03%)</td><td>2</td></tr><tr><td>h</td><td>3 (1.58%)</td><td>200 (0.86%)</td><td>66</td></tr><tr><td>html</td><td>6 (3.16%)</td><td>184 (0.79%)</td><td>30</td></tr><tr><td>jpg</td><td>3 (1.58%)</td><td>23203 (99.40%)</td><td>7734</td></tr><tr><td>js</td><td>1 (0.53%)</td><td>324 (1.39%)</td><td>324</td></tr><tr><td>json</td><td>8 (4.21%)</td><td>222 (0.95%)</td><td>27</td></tr><tr><td>lock</td><td>1 (0.53%)</td><td>77 (0.33%)</td><td>77</td></tr><tr><td>m</td><td>1 (0.53%)</td><td>138 (0.59%)</td><td>138</td></tr><tr><td>md</td><td>7 (3.68%)</td><td>2486 (10.65%)</td><td>355</td></tr><tr><td>pbxproj</td><td>2 (1.05%)</td><td>2504 (10.73%)</td><td>1252</td></tr><tr><td>plist</td><td>6 (3.16%)</td><td>147 (0.63%)</td><td>24</td></tr><tr><td>plot</td><td>10 (5.26%)</td><td>127 (0.54%)</td><td>12</td></tr><tr><td>png</td><td>16 (8.42%)</td><td>1887 (8.08%)</td><td>117</td></tr><tr><td>podspec</td><td>1 (0.53%)</td><td>69 (0.30%)</td><td>69</td></tr><tr><td>rb</td><td>1 (0.53%)</td><td>70 (0.30%)</td><td>70</td></tr><tr><td>sh</td><td>1 (0.53%)</td><td>15 (0.06%)</td><td>15</td></tr><tr><td>sqlite</td><td>1 (0.53%)</td><td>3 (0.01%)</td><td>3</td></tr><tr><td>storyboard</td><td>6 (3.16%)</td><td>1799 (7.71%)</td><td>299</td></tr><tr><td>swift</td><td>82 (43.16%)</td><td>14041 (60.15%)</td><td>171</td></tr><tr><td>txt</td><td>1 (0.53%)</td><td>21 (0.09%)</td><td>21</td></tr><tr><td>xcscheme</td><td>1 (0.53%)</td><td>111 (0.48%)</td><td>111</td></tr><tr><td>yml</td><td>2 (1.05%)</td><td>29 (0.12%)</td><td>14</td></tr></table></body></html>

diff --git a/docs/index.html b/docs/index.html
@@ -19,5 +19,5 @@
 <li><a href="tags.html">Tags</a></li>
 </ul>
 </div>
-<dl><dt>Project name</dt><dd>tremr</dd><dt>Generated</dt><dd>2018-11-04 22:02:17 (in 0 seconds)</dd><dt>Generator</dt><dd><a href="http://gitstats.sourceforge.net/">GitStats</a> (version 55c5c28), git version 2.19.1, gnuplot 5.2 patchlevel 5</dd><dt>Report Period</dt><dd>2018-09-20 12:04:29 to 2018-11-04 21:52:26</dd><dt>Age</dt><dd>47 days, 16 active days (34.04%)</dd><dt>Total Files</dt><dd>188</dd><dt>Total Lines of Code</dt><dd>23109 (28803 added, 5694 removed)</dd><dt>Total Commits</dt><dd>116 (average 7.2 commits per active day, 2.5 per all days)</dd><dt>Authors</dt><dd>9 (average 12.9 commits per author)</dd></dl></body>
+<dl><dt>Project name</dt><dd>tremr</dd><dt>Generated</dt><dd>2018-11-05 16:30:52 (in 0 seconds)</dd><dt>Generator</dt><dd><a href="http://gitstats.sourceforge.net/">GitStats</a> (version 55c5c28), git version 2.19.1, gnuplot 5.2 patchlevel 5</dd><dt>Report Period</dt><dd>2018-09-20 12:04:29 to 2018-11-05 16:09:47</dd><dt>Age</dt><dd>48 days, 17 active days (35.42%)</dd><dt>Total Files</dt><dd>190</dd><dt>Total Lines of Code</dt><dd>23343 (29283 added, 5940 removed)</dd><dt>Total Commits</dt><dd>125 (average 7.4 commits per active day, 2.6 per all days)</dd><dt>Authors</dt><dd>9 (average 13.9 commits per author)</dd></dl></body>
 </html>

diff --git a/docs/lines.html b/docs/lines.html
@@ -20,7 +20,7 @@
 </ul>
 </div>
 <dl>
-<dt>Total lines</dt><dd>23109</dd></dl>
+<dt>Total lines</dt><dd>23343</dd></dl>
 
 <h2 id="lines_of_code"><a href="#lines_of_code">Lines of Code</a></h2>
 
